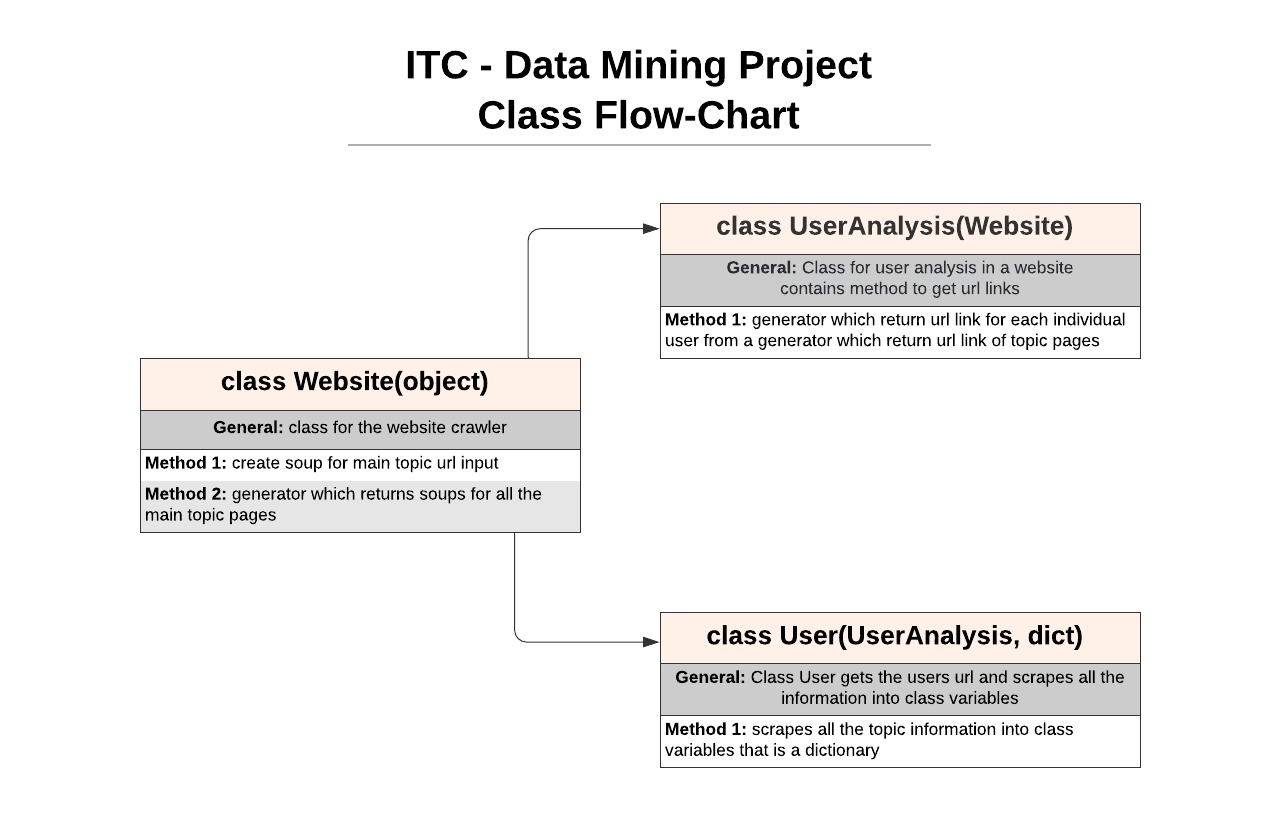
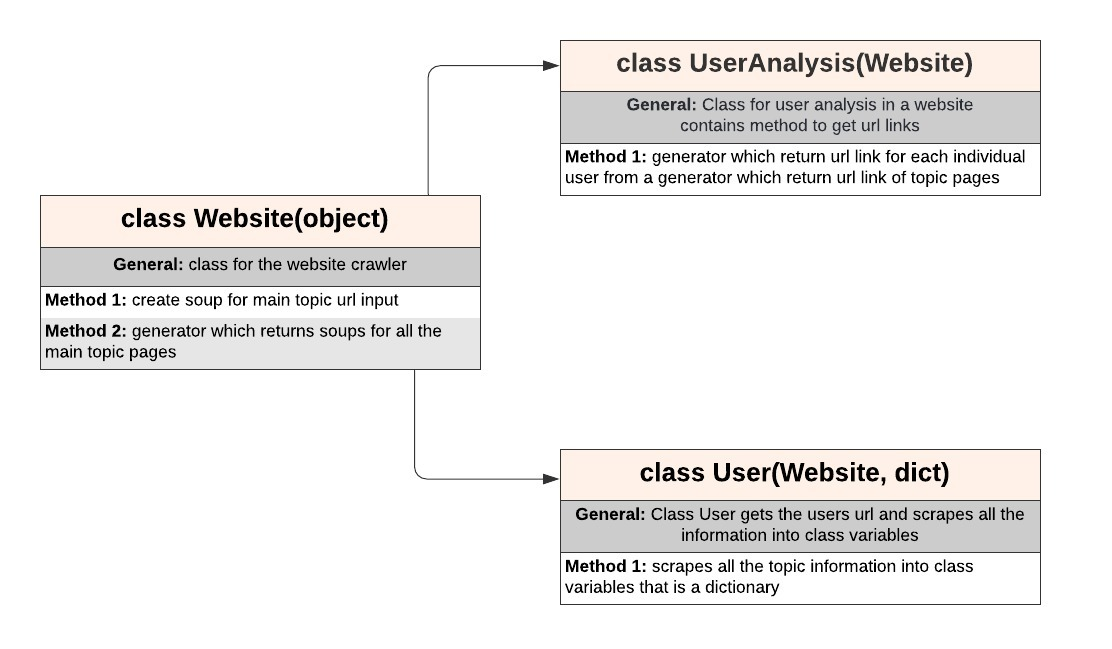
Changes in the order ib the readme, the user class inherites from the website now

diff --git a/main_file.py b/main_file.py
@@ -21,7 +21,7 @@ milestone 1: program implementations:
 Along with the main file, the program include the following files:
 1. website.py - includes the class Website(object) - create soup of pages, find last page and create soups for main topic pages
 2. user_analysis.py - includes the class UserAnalysis(Website) - create a generator of links for each individual user page
-3. user.py - includes the class User(UserAnalysis) - extracts the data in the individual user file - creates a dict object
+3. user.py - includes the class User(Website) - extracts the data in the individual user file - creates a dict object
 4. data mining_constants.txt - text file in json format which contains the constants for all the program.
                                each file imports the data that is relevant to run the file.
 
@@ -49,6 +49,7 @@ NUM_USERS_TO_SCRAP = constants_data["constants for user"]["NUM_USERS_TO_SCRAP"]
 RECORDS_IN_CHUNK_OF_DATA = constants_data["constants for user"]["RECORDS_IN_CHUNK_OF_DATA"]
 SLEEP_FACTOR = constants_data["constants for user"]["SLEEP_FACTOR"]
 THREADING = constants_data["constants for user"]["THREADING"]
+
 
 def scrap_users(website_name):
     """

diff --git a/user.py b/user.py
@@ -1,5 +1,4 @@
 from website import Website
-from user_analysis import UserAnalysis
 import json
 
 with open("data_mining_constants.txt", "r") as json_file:
@@ -8,7 +7,7 @@ with open("data_mining_constants.txt", "r") as json_file:
 FIRST_INSTANCE_TO_SCRAP = constants_data["constants for user"]["FIRST_INSTANCE_TO_SCRAP"]
 
 
-class User(UserAnalysis, dict):
+class User(Website, dict):
 
     """
     General: Class User gets the users url, scrapes all the information into class variables

diff --git a/README.md b/README.md
@@ -1,5 +1,5 @@
 # Data-mining-project
-ITC - Data mining project - StackExchange Analyse
+ITC - Data mining project - *StackExchange* Analyse
 main focus - **Stack Overflow**
 
 ### Authors
@@ -19,7 +19,7 @@ The analysis focuses on data retrieved from the top **1000** individual users
  (according to the website's all-time rank (since the website's establishment
  until scrapper was run)) .
 
-####Main insights the program attempts to present:
+#### Main insights the program attempts to present:
 - Presents insights about each country:
     1. [Reputation](https://stackoverflow.com/help/whats-reputation#:~:text=You%20gain%20reputation%20when%3A,your%20answer%3A%20%2B%20full%20bounty%20amount)
     2. Total answers 
@@ -30,10 +30,7 @@ The analysis focuses on data retrieved from the top **1000** individual users
  of **current** top users
 
 
- 
-
-
-## install
+ ## install
 [Requirements file](https://github.com/nirbarazida/Data-mining-project/blob/master/requirements.txt) \
 The project dependencies can be found in the requirements.txt file in the current repository
 ## Program work flow
@@ -45,6 +42,30 @@ input websites and **prints** each individual user data. <br/>
 In the future, the program will store the data which was retrieved and 
 upload it to MySQL database, and display the insights in a dashboard
 
+## Project implementation
+The project implementation plan is to use OOP because of it's diversity and time optimization.\
+The opportunity to implement scraping features on different websites, using the same project with minor changes in the HTML page, gives the project a significant advantage.
+
+To approach the diversity problem we decided to create 3 different class:
+- **Website**
+- **User analysis**
+- **User**
+
+ The first two are general and have little dependence on the website HTML.
+ The third class is all dedicated to scraping the information and very much adjusted to the specific website we are scraping.
+ 
+ ### Class Flow- Chart
+ 
+![image](https://raw.githubusercontent.com/nirbarazida/Data-mining-project/master/Class%20flow%20chart.jpeg)  
+
+- **Class Website:** \
+    General class for the website crawler with the format of Stack Exchange
+
+- **Class User analysis:** \
+    Class for user analysis in a the website that get links for each individual user page
+
+- **Class User** \
+    Receives the users url, scrapes all the information into class variables
 
 ## Features
 
@@ -74,28 +95,6 @@ as possible while avoiding blockage.
 of the input WEBSITE_NAMES concurrently using threading. If the 
 mode is turned off  it will run over this list in a loop
 
-## Class
-The project implementation plan is to use OOP because of it's diversity and time optimization.\
-The opportunity to implement scraping features on different websites, using the same project with minor changes in the HTML page, gives the project a significant advantage.
-
-To approach the diversity problem we decided to create 3 different class:
-- **Website**
-- **User analysis**
-- **User**
-
- The first two are general and have little dependence on the website HTML.
- The third class is all dedicated to scraping the information and very much adjusted to the specific website we are scraping.
- 
-![image](https://raw.githubusercontent.com/nirbarazida/Data-mining-project/master/Class%20flow%20chart.jpeg)  
-
-- **Class Website:** \
-    General class for the website crawler with the format of Stack Exchange
-
-- **Class User analysis:** \
-    Class for user analysis in a the website that get links for each individual user page
-
-- **Class User** \
-    Receives the users url, scrapes all the information into class variables
 
 ## Sources
 [Corey Schafer - Python tutorials](https://www.youtube.com/user/schafer5):
@@ -105,8 +104,7 @@ To approach the diversity problem we decided to create 3 different class:
 - [Generators](https://www.youtube.com/watch?v=bD05uGo_sVI)
 - [Threading](https://www.youtube.com/watch?v=IEEhzQoKtQU)
 
-[Towards datas cience](https://towardsdatascience.com/)
+[Web scraping with Python from   A to Z, ITC](https://www.itc.tech/web-scraping-with-python-a-to-z/)
 
-[Stack-overflow](https://stackoverflow.com/)
 
 
